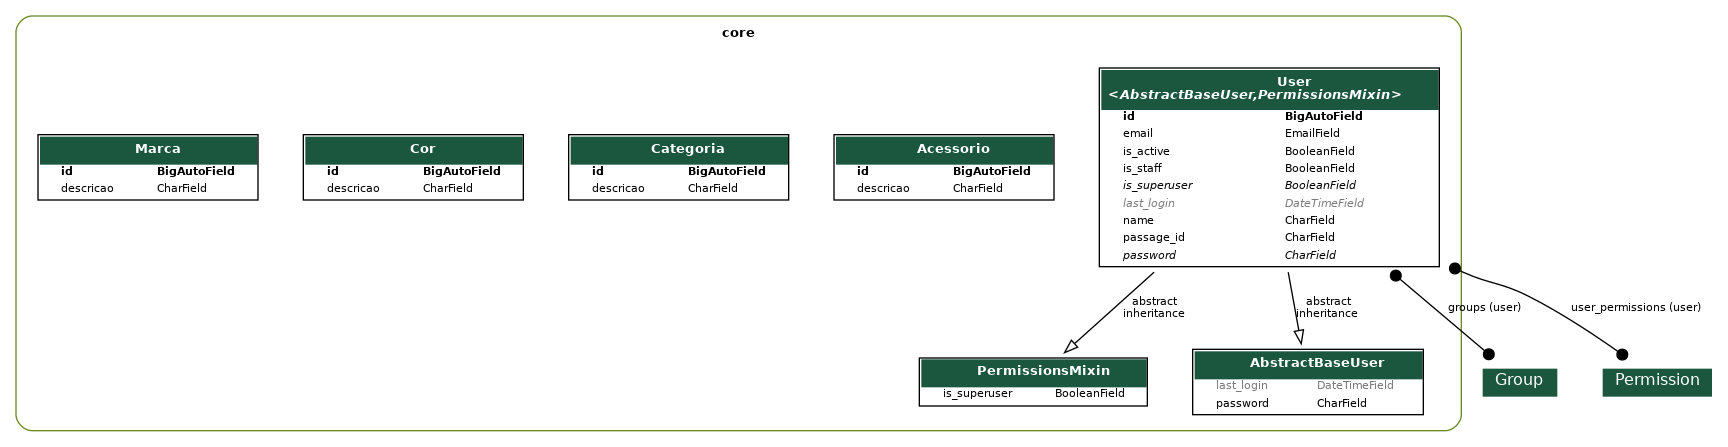
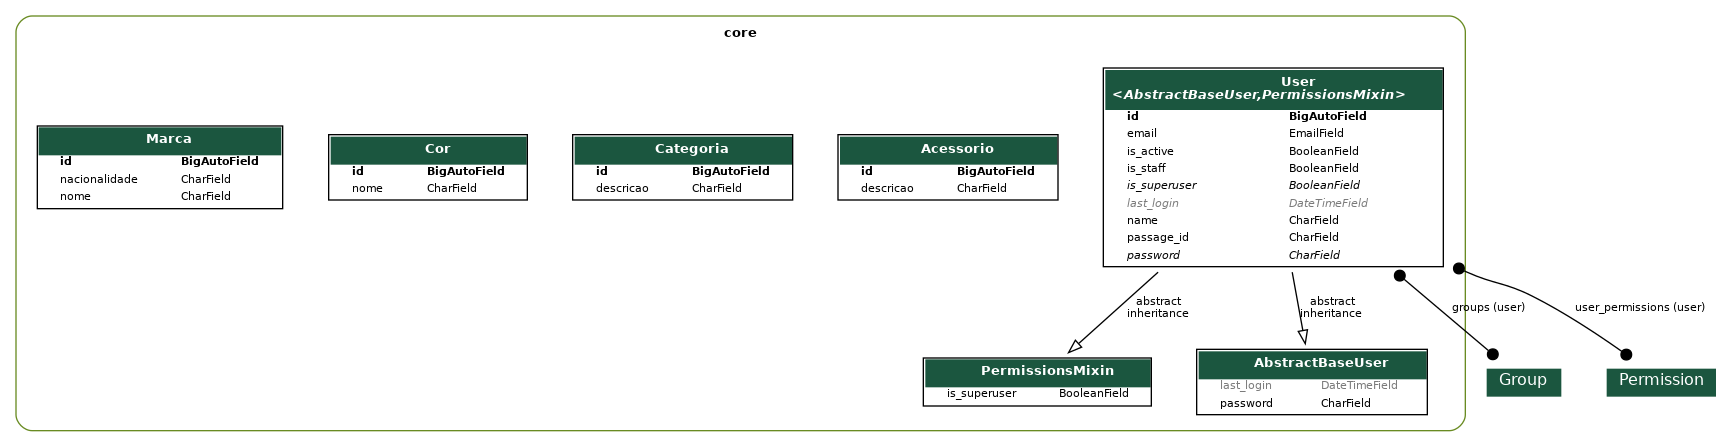
Correção Erros

diff --git a/core/migrations/0006_alter_cor_options_rename_descricao_cor_nome_and_more.py b/core/migrations/0006_alter_cor_options_rename_descricao_cor_nome_and_more.py
@@ -1,0 +1,33 @@
+# Generated by Django 5.0.6 on 2024-07-09 18:11
+
+from django.db import migrations, models
+
+
+class Migration(migrations.Migration):
+
+    dependencies = [
+        ("core", "0005_marca"),
+    ]
+
+    operations = [
+        migrations.AlterModelOptions(
+            name="cor",
+            options={"verbose_name": "Cor", "verbose_name_plural": "Cores"},
+        ),
+        migrations.RenameField(
+            model_name="cor",
+            old_name="descricao",
+            new_name="nome",
+        ),
+        migrations.RenameField(
+            model_name="marca",
+            old_name="descricao",
+            new_name="nacionalidade",
+        ),
+        migrations.AddField(
+            model_name="marca",
+            name="nome",
+            field=models.CharField(default=1, max_length=100),
+            preserve_default=False,
+        ),
+    ]

diff --git a/core/models/cor.py b/core/models/cor.py
@@ -2,6 +2,10 @@ from django.db import models
 
 class Cor(models.Model):
     nome = models.CharField(max_length=100)
-    ...
+    
     def __str__(self):
         return self.nome
+    
+    class Meta:
+        verbose_name = "Cor"
+        verbose_name_plural = "Cores"
